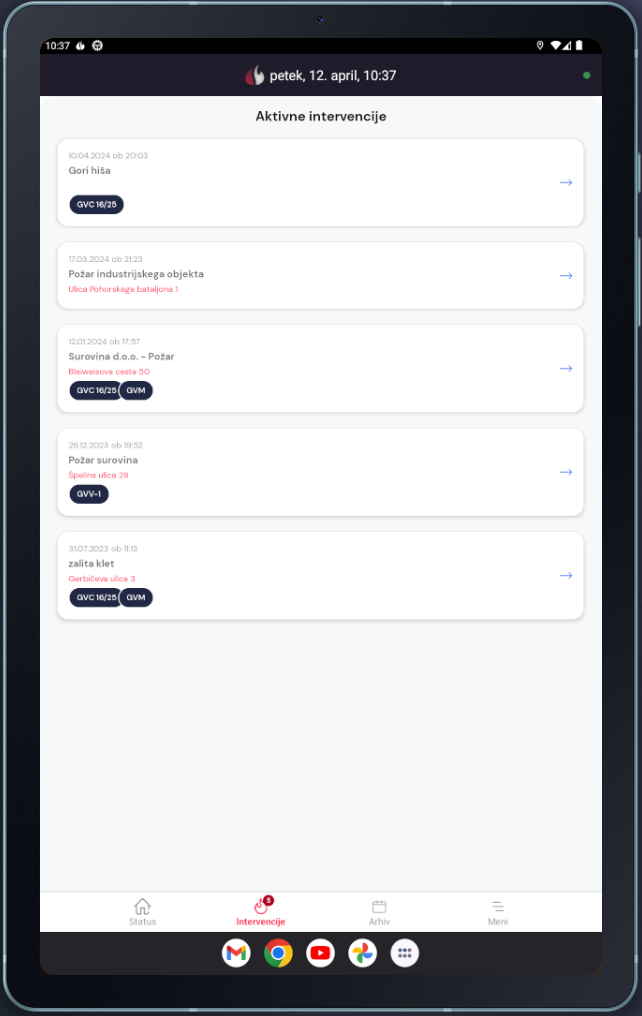
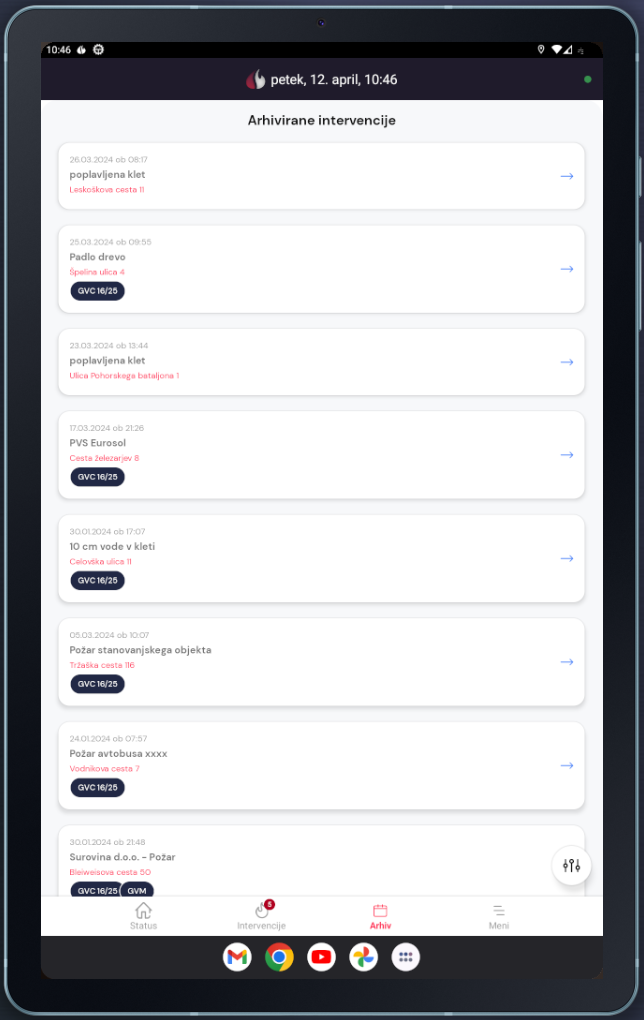
GITBOOK-95: No subject

diff --git a/glava-arhiv-intervencij.md b/glava-arhiv-intervencij.md
@@ -1,3 +1,6 @@
 # GLAVA: Arhiv intervencij
 
 S klikom na ikono za arhiv intervencij, dostopate do seznama aktivnih in zaključenih intervencij.
+
+<figure><img src="https://navodila.ignis112.si/Q5E1QGkSmgFL9ayRGZhZ/~gitbook/image?url=https%3A%2F%2F1144351825-files.gitbook.io%2F%7E%2Ffiles%2Fv0%2Fb%2Fgitbook-legacy-files%2Fo%2Fassets%252F-MX2pnuWceN2b3jR2bIP%252F-MXfO5KF6vr904XyT46z%252F-MXfPm-rs7JbAuwVCItg%252Farhiv_intervencij.PNG%3Falt%3Dmedia%26token%3D9ac3ceed-799a-4a54-9e46-3081e577c464&#x26;width=768&#x26;dpr=4&#x26;quality=100&#x26;sign=70556c17&#x26;sv=2" alt="  Ikona za arhiv intervencij."><figcaption><p>  Ikona za arhiv intervencij.</p></figcaption></figure>
+

diff --git a/mobilna-aplikacija-volunteer-vehicle/aktivne-intervencije/README.md b/mobilna-aplikacija-volunteer-vehicle/aktivne-intervencije/README.md
@@ -6,7 +6,7 @@ Ob aktivaciji, GE prejme podatke o intervenciji, na katero je napotena. S klikom
 Vsi podatki bodo avtomatsko poslani tudi v ReCO sistem WebPLK, ter SPIN.
 {% endhint %}
 
-<figure><img src="../../.gitbook/assets/image (1).png" alt=""><figcaption></figcaption></figure>
+<figure><img src="../../.gitbook/assets/image (1) (1).png" alt=""><figcaption></figcaption></figure>
 
 
 

diff --git a/mobilna-aplikacija-volunteer-vehicle/arhiv-intervencij.md b/mobilna-aplikacija-volunteer-vehicle/arhiv-intervencij.md
@@ -2,4 +2,4 @@
 
 V arhivu lahko GE išče med vsemi intervencijami na katere je bila aktivirana v preteklosti.
 
-<figure><img src="../.gitbook/assets/image.png" alt=""><figcaption></figcaption></figure>
+<figure><img src="../.gitbook/assets/image (1).png" alt=""><figcaption></figcaption></figure>

diff --git a/ignis-volunteer/prijava.md b/ignis-volunteer/prijava.md
@@ -1,2 +1,7 @@
 # PRIJAVA
 
+V Ignis se prijaviš na [https://vol.ignis112.si/login](https://vol.ignis112.si/login)
+
+Vpišeš svojo registrirano telefonsko številko in geslo.
+
+<figure><img src="../.gitbook/assets/image.png" alt=""><figcaption></figcaption></figure>
